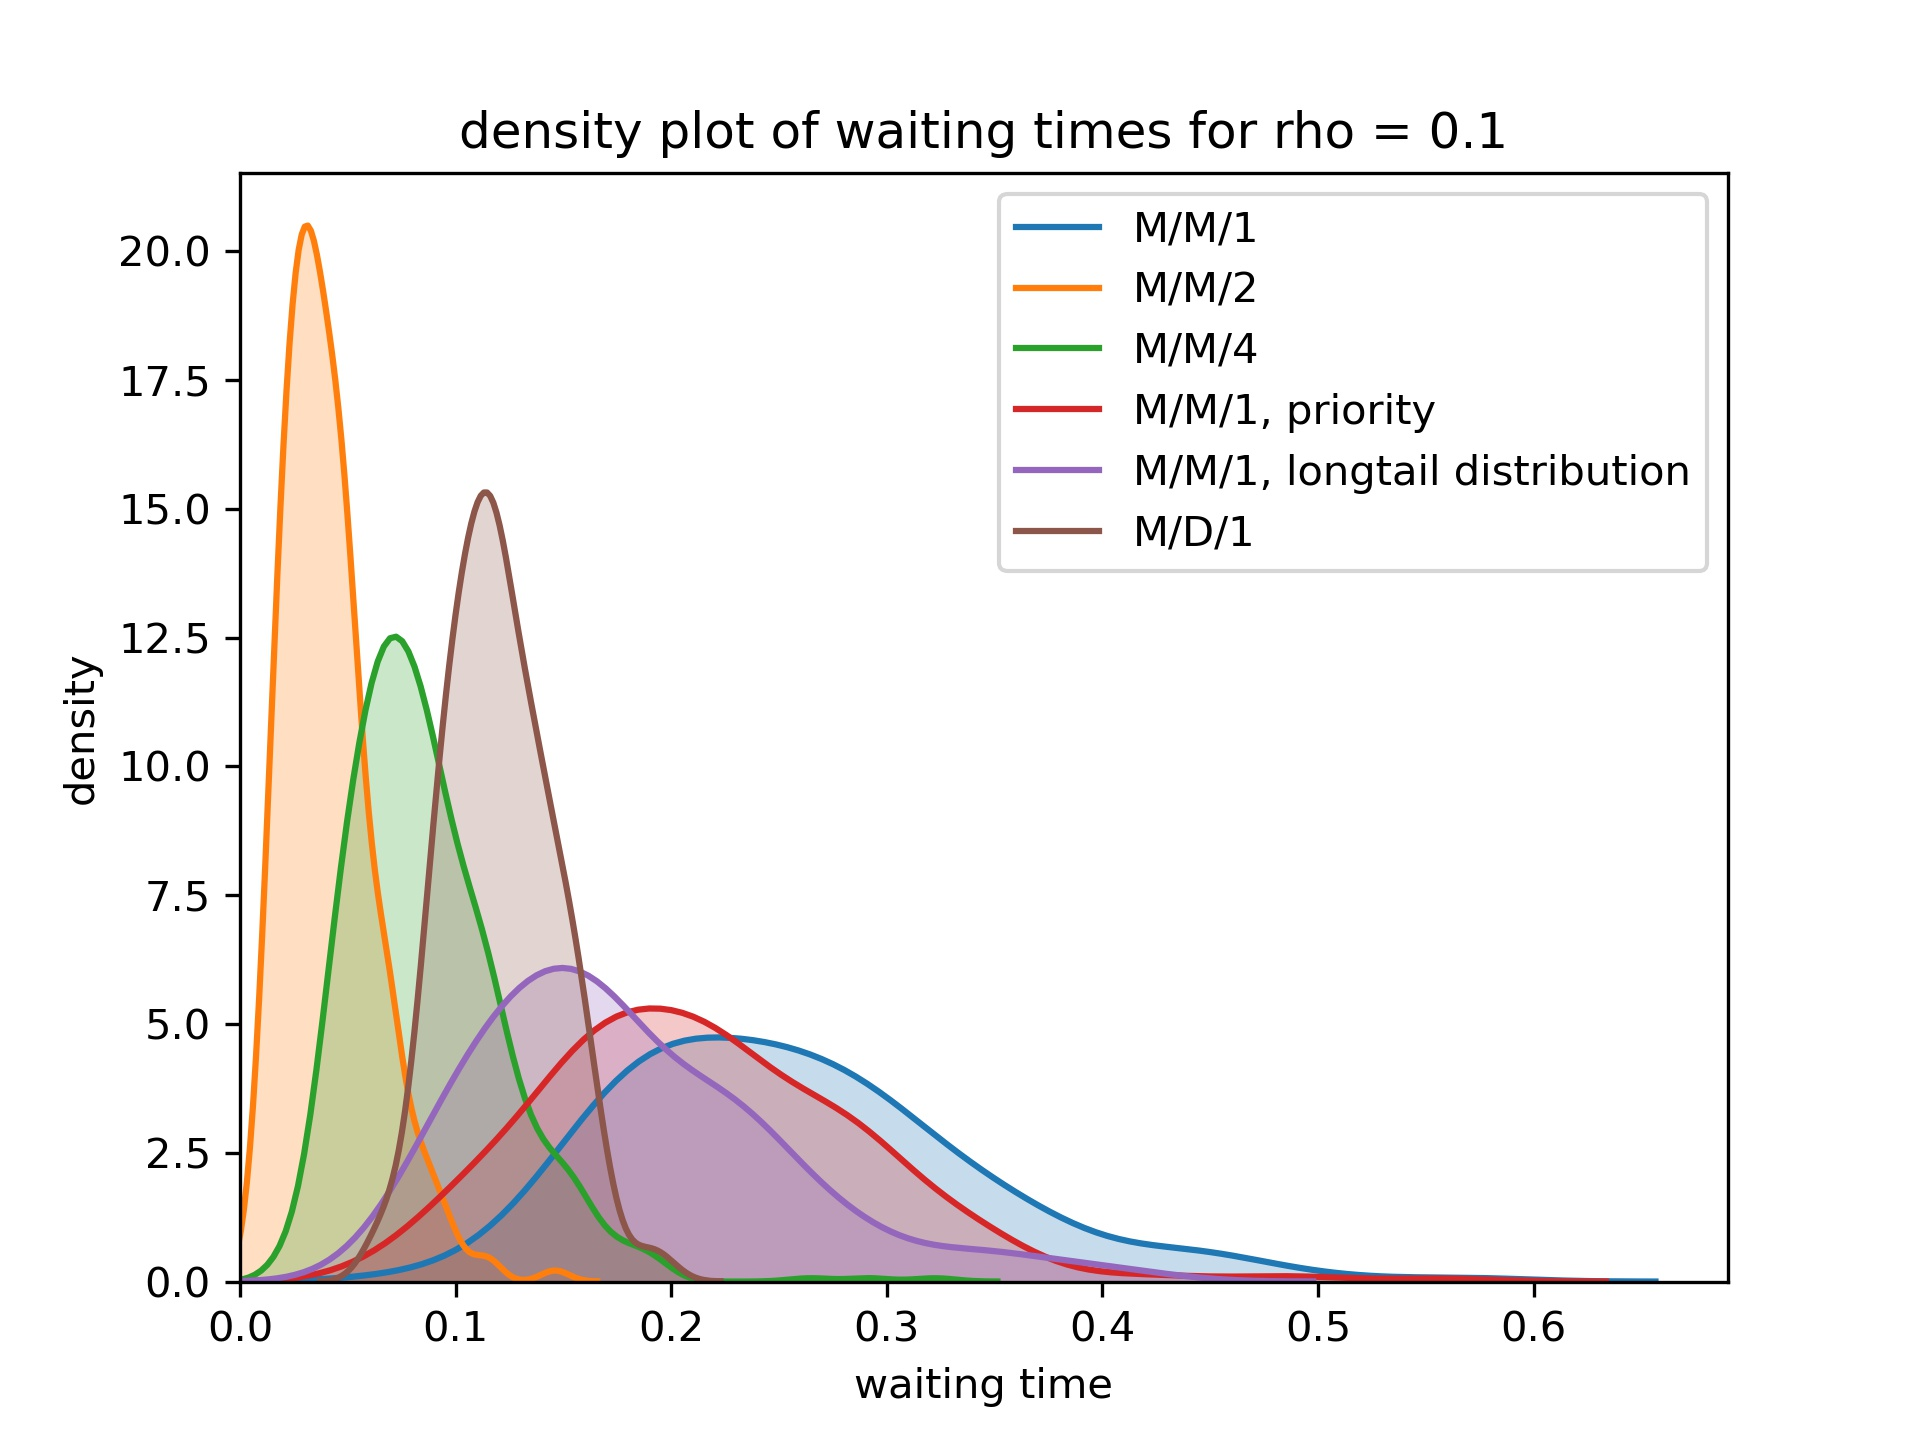
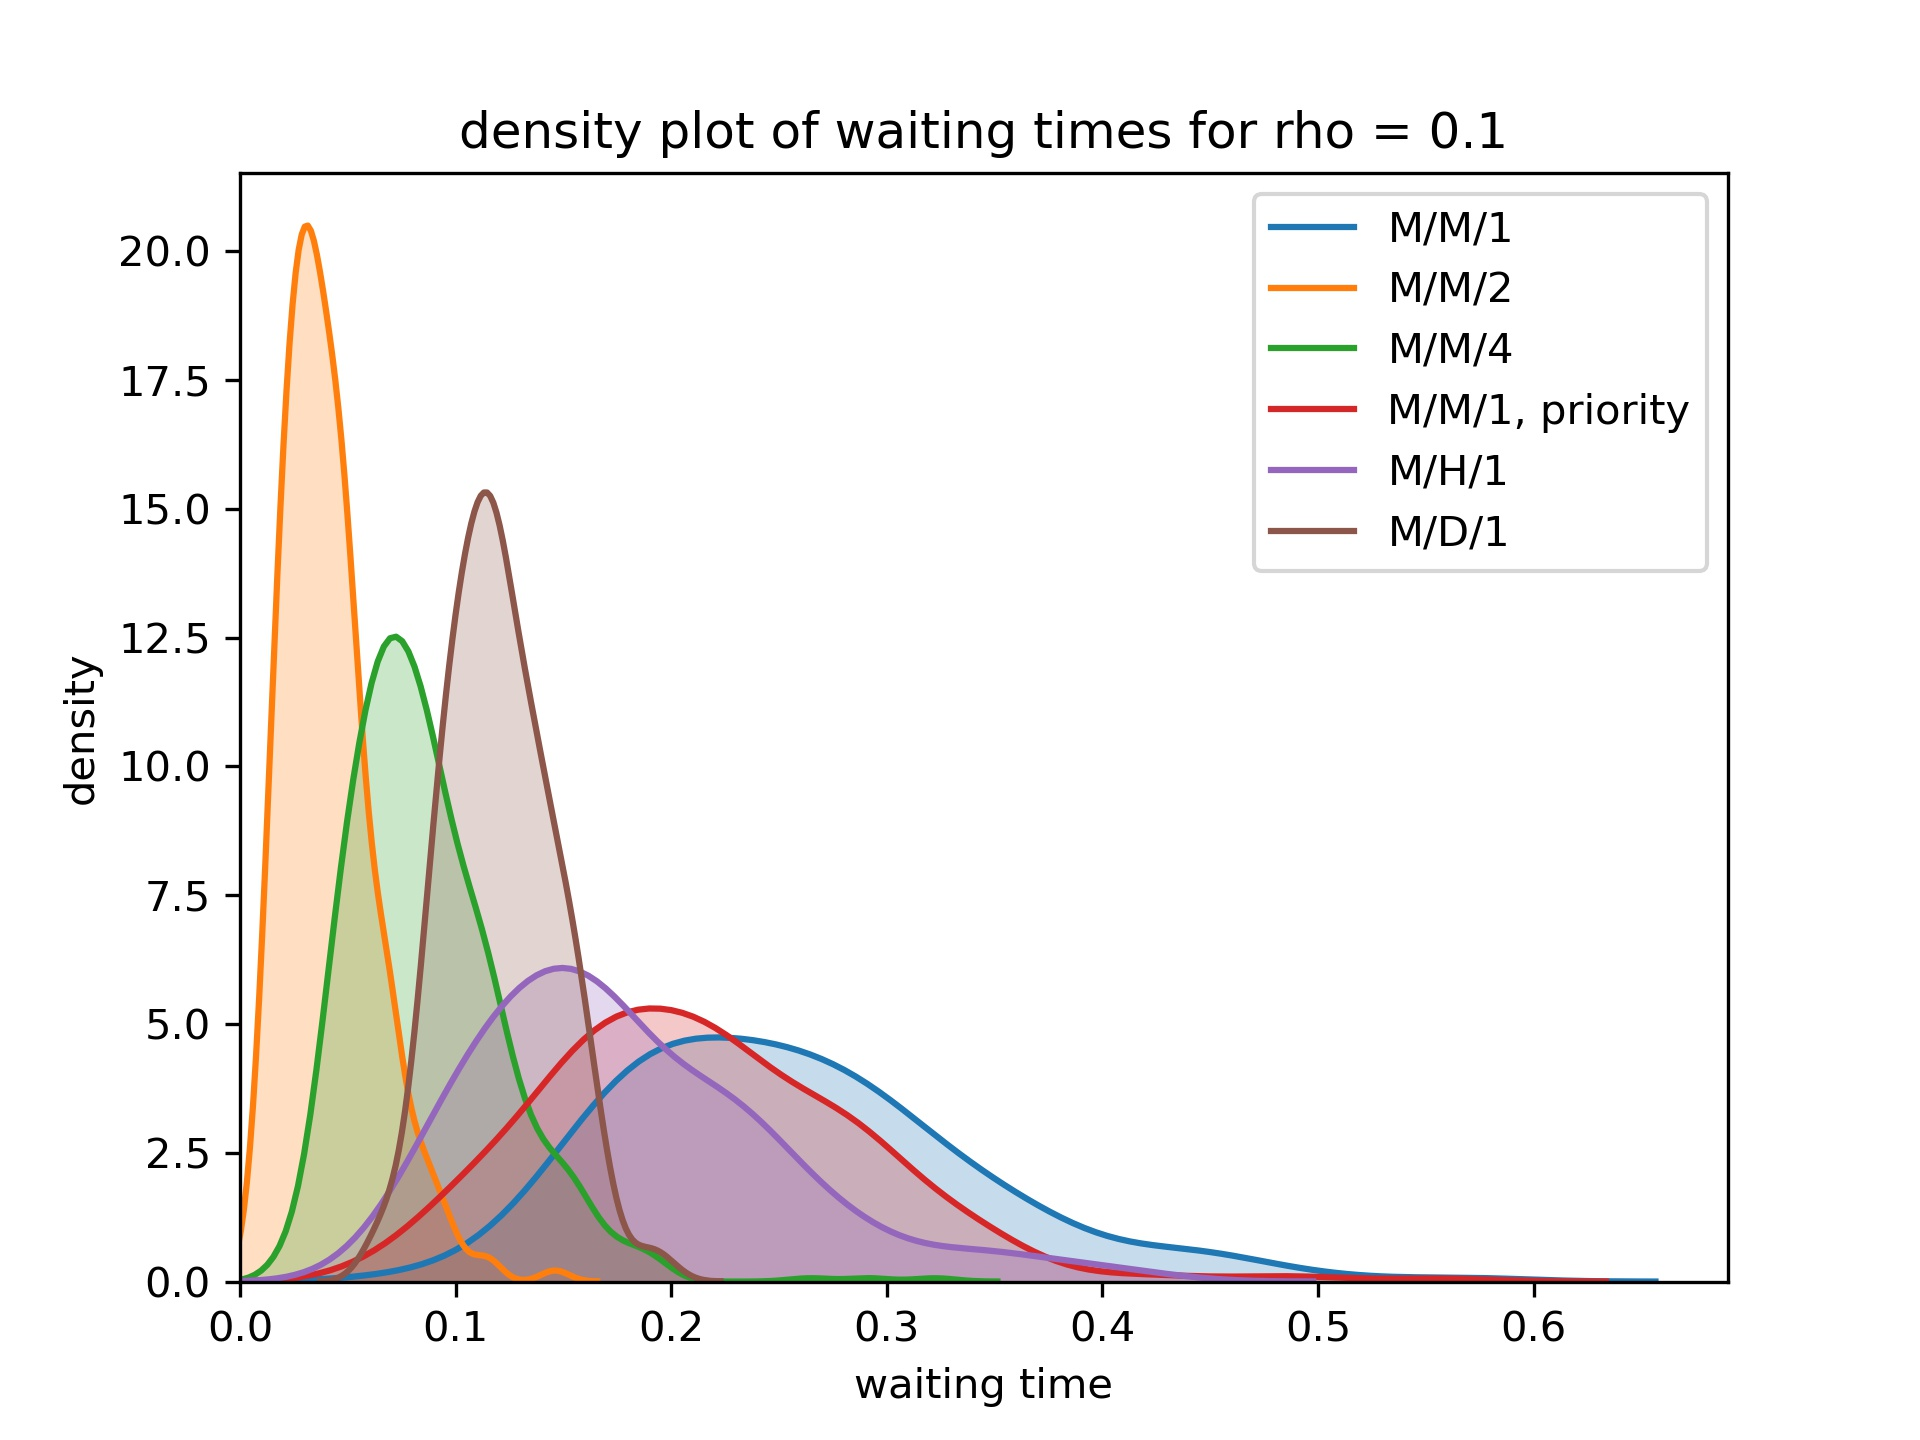
labels hyper dist changed

Changed region(s): [[0.5312, 0.125, 0.875, 0.4062], [0.5312, 0.2812, 0.5625, 0.375]]

diff --git a/Assignment2/code/density.py b/Assignment2/code/density.py
@@ -26,22 +26,22 @@ def main():
             df.columns=["rho","waiting_time"]
 
             # For each unique rho value
-            rhos = df.rho.unique().tolist()
-            rhos=[0.1]
+            #rhos = df.rho.unique().tolist()
+            rhos=[0.9]
 
             for rho in rhos:
                 this_data = df.loc[df['rho'] == rho]
                 #print(this_data["waiting_time"])
                 #sns.distplot(waiting_time, norm_hist=True)#, hist=True, kde=False)
                 sns.kdeplot(this_data["waiting_time"],shade=True)
-    title = "density plot of waiting times for rho = 0.1"
+    title = "density plot of waiting times for rho = 0.9"
     plt.title(title)
     plt.xlabel("waiting time")
     plt.ylabel("density")
     plt.xlim([0,None])
     plt.ylim([0,None])
-    plt.legend(["M/M/1", "M/M/2","M/M/4","M/M/1, priority", "M/M/1, longtail distribution","M/D/1"])
-    plt.savefig("../plots/density_rho=0.1.jpg", dpi=300)
+    plt.legend(["M/M/1", "M/M/2","M/M/4","M/M/1, priority", "M/H/1","M/D/1"])
+    plt.savefig("../plots/density_rho=0.9.jpg", dpi=300)
     plt.show()
 
 
